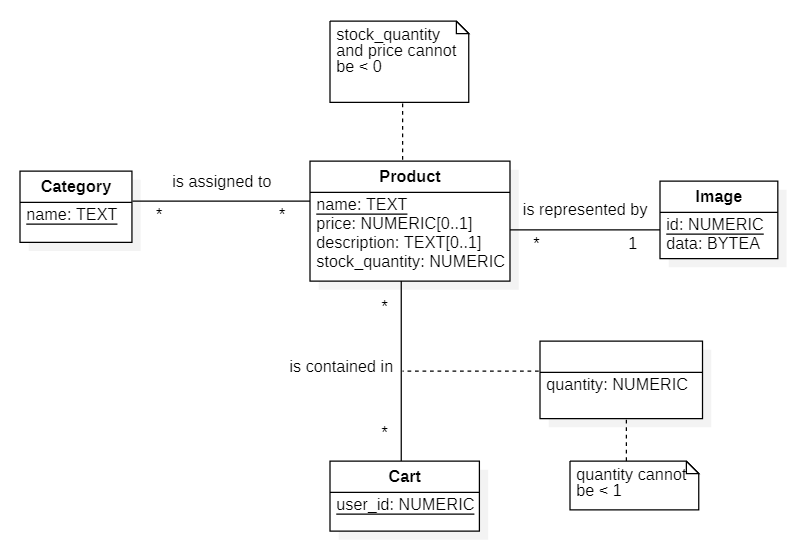
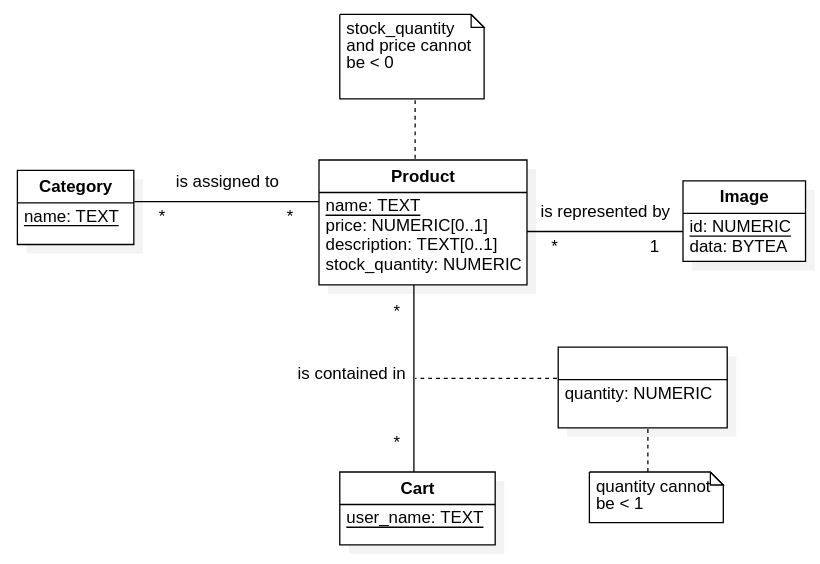
change key of cart

Changed region(s): [[0.0, 0.0, 1.0, 1.0], [0.5772, 0.5904, 0.9114, 0.797], [0.6987, 0.8266, 0.9114, 0.9446]]

diff --git a/src/test/java/ch/heigvd/amt/service/CartServiceTest.java b/src/test/java/ch/heigvd/amt/service/CartServiceTest.java
@@ -18,10 +18,9 @@ import java.util.List;
 @QuarkusTestResource(PostgisResource.class)
 public class CartServiceTest {
 
-    private static final int USER_ID = 1;
+    private static final String USERNAME = "test";
     private static final CartProduct PRODUCT_1 = new CartProduct("1", null, null, 1);
     private static final CartProduct PRODUCT_2 = new CartProduct("2", null, null, 2);
-
 
     @Inject
     DataSource dataSource;
@@ -37,94 +36,95 @@ public class CartServiceTest {
 
     @Test
     void getAllProductCartExist() {
-        List<CartProduct> result1 = cartService.getAllProduct(USER_ID);
+        List<CartProduct> result1 = cartService.getAllProduct(USERNAME);
         Assertions.assertEquals(2, result1.size());
     }
 
     @Test
     void getAllProductCartDoesNotExist() {
-        List<CartProduct> result2 = cartService.getAllProduct(0);
+        List<CartProduct> result2 = cartService.getAllProduct("loup");
         Assertions.assertTrue(result2.isEmpty());
     }
 
     @Test
     void addProductExist() {
         // Check for duplicate
-        Assertions.assertEquals(new UpdateResult(UpdateStatus.DUPLICATE), cartService.addProduct(USER_ID, PRODUCT_1));
+        Assertions.assertEquals(new UpdateResult(UpdateStatus.DUPLICATE), cartService.addProduct(USERNAME, PRODUCT_1));
 
         // Add the product
         Assertions.assertEquals(UpdateResult.success(),
-                cartService.addProduct(USER_ID, new CartProduct("3", null, null, 5)));
-        int result2 = cartService.getAllProduct(USER_ID).size();
+                cartService.addProduct(USERNAME, new CartProduct("3", null, null, 5)));
+        int result2 = cartService.getAllProduct(USERNAME).size();
         Assertions.assertEquals(3, result2);
     }
 
     @Test
     void addProductDoesNotExist() {
         Assertions.assertEquals(new UpdateResult(UpdateStatus.INVALID_REFERENCE),
-                cartService.addProduct(USER_ID, new CartProduct("F", null, null, 5)));
+                cartService.addProduct(USERNAME, new CartProduct("F", null, null, 5)));
     }
 
     @Test
     void addProductNonValidQuantity() {
         Assertions.assertEquals(new UpdateResult(UpdateStatus.INVALID_CHECK),
-                cartService.addProduct(USER_ID, new CartProduct("3", null, null, 0)));
+                cartService.addProduct(USERNAME, new CartProduct("3", null, null, 0)));
     }
 
     @Test
     void deleteProductExist() {
-        cartService.deleteProduct(USER_ID, "1");
-        int result1 = cartService.getAllProduct(USER_ID).size();
+        cartService.deleteProduct(USERNAME, "1");
+        int result1 = cartService.getAllProduct(USERNAME).size();
         Assertions.assertEquals(1, result1);
     }
 
     @Test
     void deleteProductDoesNotExist() {
-        cartService.deleteProduct(USER_ID, "M");
-        int result1 = cartService.getAllProduct(USER_ID).size();
+        cartService.deleteProduct(USERNAME, "M");
+        int result1 = cartService.getAllProduct(USERNAME).size();
         Assertions.assertEquals(2, result1);
     }
 
     @Test
     void updateProductQuantity() {
         Assertions.assertEquals(UpdateResult.success(),
-                cartService.updateProductQuantity(USER_ID, "1", 11));
-        List<CartProduct> result1 = cartService.getAllProduct(USER_ID);
+                cartService.updateProductQuantity(USERNAME, "1", 11));
+        List<CartProduct> result1 = cartService.getAllProduct(USERNAME);
         Assertions.assertEquals(11, result1.get(0).getQuantity());
     }
 
     @Test
     void updateProductQuantityNonValid() {
         Assertions.assertEquals(new UpdateResult(UpdateStatus.INVALID_CHECK),
-                cartService.updateProductQuantity(USER_ID, "1", -5));
+                cartService.updateProductQuantity(USERNAME, "1", -5));
     }
 
     @Test
     void clearCart() {
-        cartService.clear(USER_ID);
-        List<CartProduct> result1 = cartService.getAllProduct(USER_ID);
+        cartService.clear(USERNAME);
+        List<CartProduct> result1 = cartService.getAllProduct(USERNAME);
         Assertions.assertTrue(result1.isEmpty());
     }
 
     @Test
     void deleteCart() {
-        cartService.delete(USER_ID);
-        List<CartProduct> result1 = cartService.getAllProduct(USER_ID);
+        cartService.delete(USERNAME);
+        List<CartProduct> result1 = cartService.getAllProduct(USERNAME);
         Assertions.assertTrue(result1.isEmpty());
     }
 
     @Test
     void addCart() {
         // Check for duplicate
-        Assertions.assertEquals(new UpdateResult(UpdateStatus.DUPLICATE), cartService.add(USER_ID));
+        Assertions.assertEquals(new UpdateResult(UpdateStatus.DUPLICATE), cartService.add(USERNAME));
 
         // Add the cart
         Assertions.assertEquals(UpdateResult.success(),
-                cartService.add(2));
+                cartService.add("loup"));
 
         // Check the cart was added
-        cartService.addProduct(2, PRODUCT_1);
-        int result2 = cartService.getAllProduct(2).size();
+        cartService.addProduct("loup", PRODUCT_1);
+        int result2 = cartService.getAllProduct("loup").size();
         Assertions.assertEquals(1, result2);
     }
+
 }

diff --git a/src/main/java/ch/heigvd/amt/services/CartService.java b/src/main/java/ch/heigvd/amt/services/CartService.java
@@ -26,15 +26,16 @@ public class CartService {
     }
 
     /**
-     * Get all product from a specific cart
+     * Get all products of a specific user cart
      *
-     * @return a list of product
+     * @param username name of the user
+     * @return a list of products
      */
-    public List<CartProduct> getAllProduct(int userId) {
+    public List<CartProduct> getAllProduct(String username) {
         return new ArrayList<>(
                 jdbi.withHandle(handle -> handle
                         .createQuery(ResourceLoader.loadResource("sql/cart/getAllProduct.sql"))
-                        .bind("id", userId)
+                        .bind("username", username)
                         .mapTo(CartProduct.class)
                         .list()));
     }
@@ -42,15 +43,15 @@ public class CartService {
     /**
      * Add a product to the cart of a specific user
      *
-     * @param userId      id of the user
+     * @param username    name of the user
      * @param cartProduct cartProduct to add
      * @return the result of the operation
      */
-    public UpdateResult addProduct(int userId, CartProduct cartProduct) {
+    public UpdateResult addProduct(String username, CartProduct cartProduct) {
         try {
             jdbi.useHandle(handle -> handle
                     .createUpdate(ResourceLoader.loadResource("sql/cart/addProduct.sql"))
-                    .bind("id", userId)
+                    .bind("username", username)
                     .bind("name", cartProduct.getName())
                     .bind("quantity", cartProduct.getQuantity())
                     .execute());
@@ -63,17 +64,17 @@ public class CartService {
     /**
      * Update the quantity of a product in the cart specific to the user
      *
-     * @param userId      id of the user
+     * @param username    name of the user
      * @param name        name of the product
      * @param newQuantity the new quantity to put
      * @return the result of the operation
      */
-    public UpdateResult updateProductQuantity(int userId, String name, int newQuantity) {
+    public UpdateResult updateProductQuantity(String username, String name, int newQuantity) {
         if (newQuantity > 1) {
             try {
                 jdbi.useHandle(handle -> handle
                         .createUpdate(ResourceLoader.loadResource("sql/cart/updateProductQuantity.sql"))
-                        .bind("id", userId)
+                        .bind("username", username)
                         .bind("name", name)
                         .bind("quantity", newQuantity)
                         .execute());
@@ -89,13 +90,13 @@ public class CartService {
     /**
      * Delete a product from the cart of a secific user
      *
-     * @param userId id of the user
-     * @param name   name of the product
+     * @param username name of the user
+     * @param name     name of the product
      */
-    public void deleteProduct(int userId, String name) {
+    public void deleteProduct(String username, String name) {
         jdbi.useHandle(handle -> handle
                 .createUpdate(ResourceLoader.loadResource("sql/cart/deleteProduct.sql"))
-                .bind("id", userId)
+                .bind("username", username)
                 .bind("name", name)
                 .execute());
     }
@@ -103,38 +104,38 @@ public class CartService {
     /**
      * Clear the cart specific to the user
      *
-     * @param userId id of the user
+     * @param username name of the user
      */
-    public void clear(int userId) {
+    public void clear(String username) {
         jdbi.useHandle(handle -> handle
                 .createUpdate(ResourceLoader.loadResource("sql/cart/clear.sql"))
-                .bind("id", userId)
+                .bind("username", username)
                 .execute());
     }
 
     /**
      * Delete the cart specific to the user
      *
-     * @param userId id of the user
+     * @param username name of the user
      */
-    public void delete(int userId) {
+    public void delete(String username) {
         jdbi.useHandle(handle -> handle
                 .createUpdate(ResourceLoader.loadResource("sql/cart/delete.sql"))
-                .bind("id", userId)
+                .bind("username", username)
                 .execute());
     }
 
     /**
      * Add a cart specific to the user
      *
-     * @param userId id of the user
+     * @param username name of the user
      * @return the result of the operation
      */
-    public UpdateResult add(int userId) {
+    public UpdateResult add(String username) {
         try {
             jdbi.useHandle(handle -> handle
                     .createUpdate(ResourceLoader.loadResource("sql/cart/add.sql"))
-                    .bind("id", userId)
+                    .bind("username", username)
                     .execute());
         } catch (UnableToExecuteStatementException e) {
             return updateResultHandler.handleUpdateError(e);
